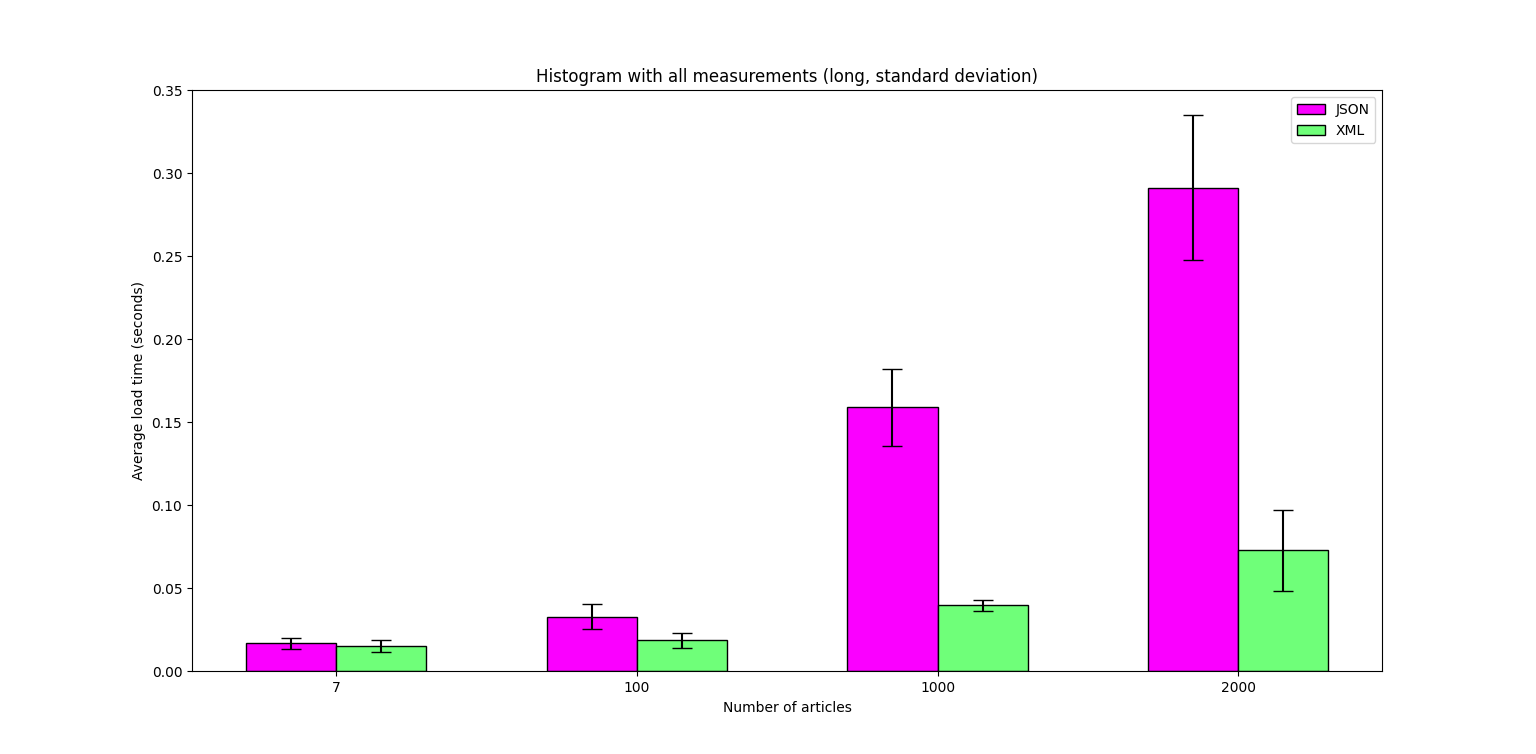
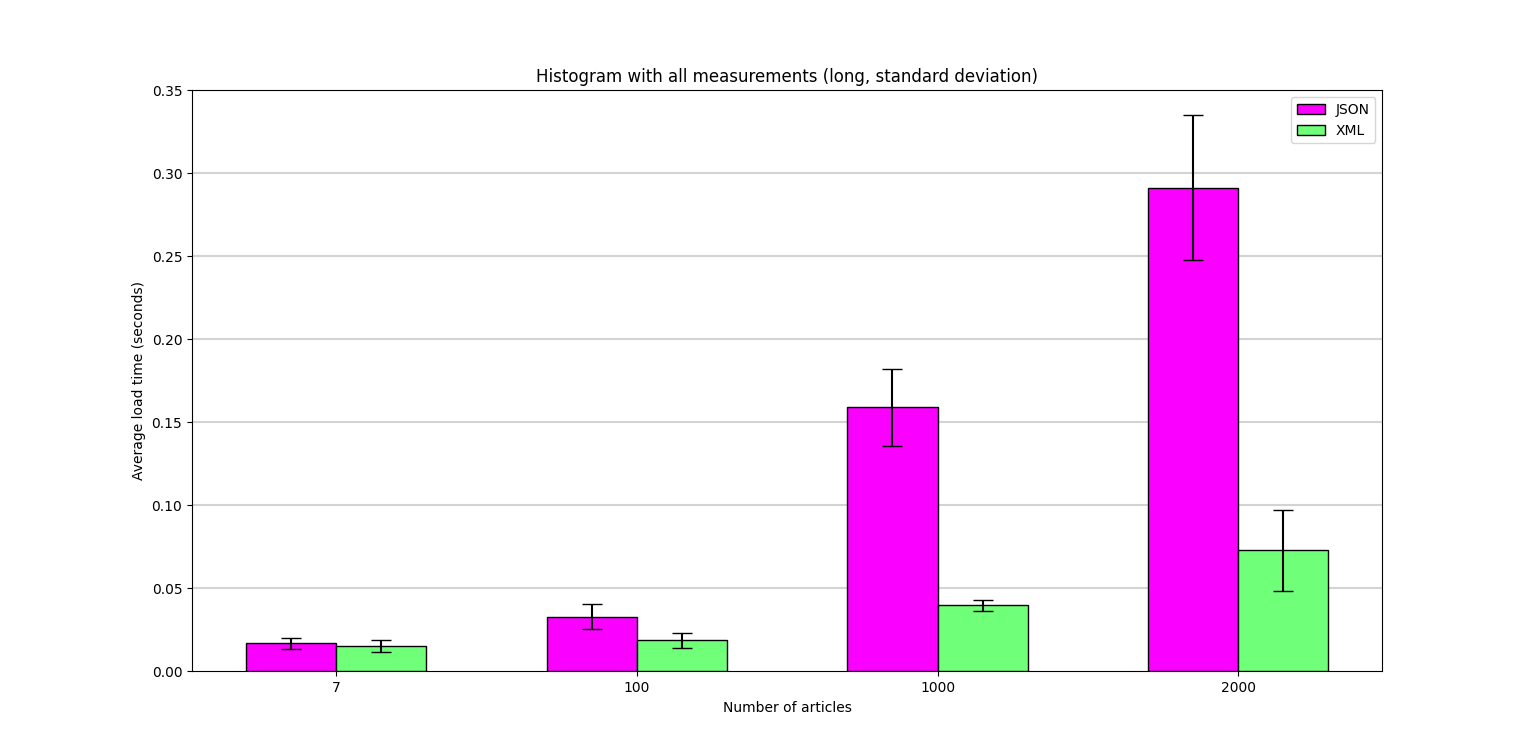
Added horizontal lines to histograms

diff --git a/PythonScripts/histograms/histogram(long).py b/PythonScripts/histograms/histogram(long).py
@@ -39,11 +39,13 @@ def barChars():
     for i in range(0, len(groups), 2):
         plt.bar(barsOrder[i // 2] - barWidth / 2, barsData[i], color=colors[0],
                 edgecolor='black', width=barWidth, yerr=barsInterval[i],
-                capsize=intervalCapsize, alpha=Opacity, label="JSON" if i == 0 else "_nolegend_")
+                capsize=intervalCapsize, alpha=Opacity, label="JSON" if i == 0 else "_nolegend_",
+                zorder=3)  # Setting higher zorder for bars
 
         plt.bar(barsOrder[i // 2] + barWidth / 2, barsData[i + 1], color=colors[1],
                 edgecolor='black', width=barWidth, yerr=barsInterval[i + 1],
-                capsize=intervalCapsize, alpha=Opacity, label="XML" if i == 0 else "_nolegend_")
+                capsize=intervalCapsize, alpha=Opacity, label="XML" if i == 0 else "_nolegend_",
+                zorder=3)  # Setting higher zorder for bars
 
     # Put a tick on the x-axis under each pair of bars and label it with data size
     plt.xticks(barsOrder, ["7", "100", "1000", "2000"])
@@ -54,6 +56,11 @@ def barChars():
 
     # Set the y-axis limit
     plt.ylim(0, 0.35)  # Adjusted for seconds
+
+    # Add grid lines along the y-axis at specific positions
+    y_positions = [0.05, 0.1, 0.15, 0.2, 0.25, 0.3, 0.35]  # Specify the positions where you want the grid lines
+    for position in y_positions:
+        plt.axhline(y=position, color='lightgray', linestyle='-', zorder=2)  # Set zorder for grid lines
 
     plt.show()
 

diff --git a/PythonScripts/histograms/histogram(mixed).py b/PythonScripts/histograms/histogram(mixed).py
@@ -39,11 +39,13 @@ def barChars():
     for i in range(0, len(groups), 2):
         plt.bar(barsOrder[i // 2] - barWidth / 2, barsData[i], color=colors[0],
                 edgecolor='black', width=barWidth, yerr=barsInterval[i],
-                capsize=intervalCapsize, alpha=Opacity, label="JSON" if i == 0 else "_nolegend_")
+                capsize=intervalCapsize, alpha=Opacity, label="JSON" if i == 0 else "_nolegend_",
+                zorder=3)  # Setting higher zorder for bars
 
         plt.bar(barsOrder[i // 2] + barWidth / 2, barsData[i + 1], color=colors[1],
                 edgecolor='black', width=barWidth, yerr=barsInterval[i + 1],
-                capsize=intervalCapsize, alpha=Opacity, label="XML" if i == 0 else "_nolegend_")
+                capsize=intervalCapsize, alpha=Opacity, label="XML" if i == 0 else "_nolegend_",
+                zorder=3)  # Setting higher zorder for bars
 
     # Put a tick on the x-axis under each pair of bars and label it with data size
     plt.xticks(barsOrder, ["7", "100", "1000", "2000"])
@@ -54,6 +56,11 @@ def barChars():
 
     # Set the y-axis limit
     plt.ylim(0, 0.35)  # Adjusted for seconds
+
+    # Add grid lines along the y-axis at specific positions
+    y_positions = [0.05, 0.1, 0.15, 0.2, 0.25, 0.3, 0.35]  # Specify the positions where you want the grid lines
+    for position in y_positions:
+        plt.axhline(y=position, color='lightgray', linestyle='-', zorder=2)  # Set zorder for grid lines
 
     plt.show()
 

diff --git a/PythonScripts/histograms/histogram(small).py b/PythonScripts/histograms/histogram(small).py
@@ -39,11 +39,13 @@ def barChars():
     for i in range(0, len(groups), 2):
         plt.bar(barsOrder[i // 2] - barWidth / 2, barsData[i], color=colors[0],
                 edgecolor='black', width=barWidth, yerr=barsInterval[i],
-                capsize=intervalCapsize, alpha=Opacity, label="JSON" if i == 0 else "_nolegend_")
+                capsize=intervalCapsize, alpha=Opacity, label="JSON" if i == 0 else "_nolegend_",
+                zorder=3)  # Setting higher zorder for bars
 
         plt.bar(barsOrder[i // 2] + barWidth / 2, barsData[i + 1], color=colors[1],
                 edgecolor='black', width=barWidth, yerr=barsInterval[i + 1],
-                capsize=intervalCapsize, alpha=Opacity, label="XML" if i == 0 else "_nolegend_")
+                capsize=intervalCapsize, alpha=Opacity, label="XML" if i == 0 else "_nolegend_",
+                zorder=3)  # Setting higher zorder for bars
 
     # Put a tick on the x-axis under each pair of bars and label it with data size
     plt.xticks(barsOrder, ["7", "100", "1000", "2000"])
@@ -54,6 +56,11 @@ def barChars():
 
     # Set the y-axis limit
     plt.ylim(0, 0.35)  # Adjusted for seconds
+
+    # Add grid lines along the y-axis at specific positions
+    y_positions = [0.05, 0.1, 0.15, 0.2, 0.25, 0.3, 0.35]  # Specify the positions where you want the grid lines
+    for position in y_positions:
+        plt.axhline(y=position, color='lightgray', linestyle='-', zorder=2)  # Set zorder for grid lines
 
     plt.show()
 
